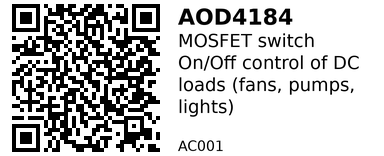
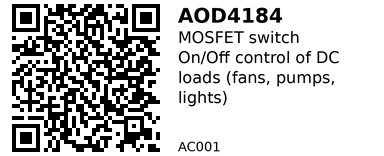
bulk printing

Changed region(s): [[0.4375, 0.0256, 0.9375, 0.7436], [0.4688, 0.8974, 0.5938, 0.9744]]

diff --git a/scripts/build_labels.py b/scripts/build_labels.py
@@ -1,18 +1,20 @@
 #!/usr/bin/env python3
 """
-Build QR labels for each component page (T02-friendly).
-- Final width is exactly MAX_WIDTH to avoid blurry global rescaling.
-- Presets: 'compact' or 'large' (bigger QR + fonts).
-- QR left (sharp), wrapped text right (hi-DPI then LANCZOS downscale).
-- Title aligns to TOP of QR; code aligns to BOTTOM of QR.
-- Title shows NAME only; footer shows CODE; URL only inside QR.
-- Output: docs/stickers/<ID>.png and docs/stickers/index.csv
+Build QR labels for each component page (T02-friendly), and also pack multiple
+labels into tall 'sheets' you can print at once (<= 50mm x 150mm).
+
+Tweaks:
+- Vertical cut bar is now OPTIONAL and defaults to OFF.
+- Draw a single horizontal divider centered in each gap between labels.
+- Keep 8 px gap; divider is precisely centered in that gap.
 """
 
 from pathlib import Path
-import re, csv, yaml
-import qrcode
+import re
+import csv
+import yaml
 from PIL import Image, ImageDraw, ImageFont
+import qrcode
 
 # ----------------- Preset -----------------
 PRESET = "large"   # "compact" or "large"
@@ -25,8 +27,26 @@ FONTS_DIR = ROOT / "fonts"
 OUT.mkdir(parents=True, exist_ok=True)
 
 # ----------- Printer/layout ---------------
-MAX_WIDTH = 384          # T02 (58mm). Use 576 for 80mm printers.
+# T02 width: 58mm class paper, printable width ~384 dots at 203 dpi (≈48mm).
+MAX_WIDTH = 384
 QR_BORDER = 1
+
+# Cut/packing settings
+DPI = 203
+SHEET_MAX_HEIGHT_MM = 150        # tallest you can configure
+SHEET_MAX_H = int(round(SHEET_MAX_HEIGHT_MM / 25.4 * DPI))   # ≈1200 px
+
+# Gap between stacked labels so you don’t cut into a QR
+LABEL_GAP_PX = 8
+
+# Horizontal divider (centered in the gap)
+DRAW_H_DIVIDER = True
+H_DIV_THICK = 1                   # 1 px looks crisp on T02
+
+# Vertical cut bar (optional guide near the right edge)
+DRAW_VERTICAL_CUT_LINE = False     # default off (you can set True if you want it)
+CUT_LINE_INSET = 6                 # px from right edge (avoid clipping)
+CUT_LINE_WIDTH = 3                 # width of the vertical bar
 
 # Common paddings
 PADDING_LEFT    = 8
@@ -38,21 +58,20 @@ MAX_INFO_LINES  = 5
 
 # Per-preset sizing
 if PRESET == "large":
-    # Larger QR and fonts; text rendered at higher DPI for smoothness
     QR_BOX_SIZE      = 4
-    TITLE_FONT_SIZE  = 22
-    LINE_FONT_SIZE   = 18
-    SMALL_FONT_SIZE  = 14
-    LINE_SPACING     = 22
-    TITLE_SPACING    = 26
-    TEXT_SCALE       = 3   # hi-DPI text render factor
-else:  # compact
-    QR_BOX_SIZE      = 3
-    TITLE_FONT_SIZE  = 18
+    TITLE_FONT_SIZE  = 20
     LINE_FONT_SIZE   = 16
     SMALL_FONT_SIZE  = 13
     LINE_SPACING     = 20
     TITLE_SPACING    = 24
+    TEXT_SCALE       = 3
+else:  # compact
+    QR_BOX_SIZE      = 3
+    TITLE_FONT_SIZE  = 17
+    LINE_FONT_SIZE   = 15
+    SMALL_FONT_SIZE  = 12
+    LINE_SPACING     = 18
+    TITLE_SPACING    = 22
     TEXT_SCALE       = 2
 
 # --------- Optional metadata block --------
@@ -74,12 +93,15 @@ FONT_REG_13 = load_font(FONTS_DIR / "DejaVuSans.ttf",      SMALL_FONT_SIZE) or I
 
 # --------------- Helpers ------------------
 def parse_front_matter(text: str):
-    if text.startswith("---"):
-        end = text.find("\n---", 3)
-        if end != -1:
-            yml = text[3:end+1]
-            body = text[end+4:]
+    """Return (front_matter_dict, body_text)."""
+    m = re.match(r'^---\s*\n(.*?)\n---\s*\n?(.*)\Z', text, re.S)
+    if m:
+        yml = m.group(1)
+        body = m.group(2)
+        try:
             return yaml.safe_load(yml) or {}, body
+        except Exception:
+            return {}, text
     return {}, text
 
 def parse_printer_meta(text: str):
@@ -108,7 +130,7 @@ def wrap_to_width(text: str, font: ImageFont.FreeTypeFont, max_w: int, draw: Ima
     lines.append(cur)
     return lines
 
-def render_text_panel(title: str, info_lines: list[str], code: str, height: int, width: int) -> Image.Image:
+def render_text_panel(title: str, info_lines, code: str, height: int, width: int) -> Image.Image:
     """
     Render the right-hand text panel to EXACTLY the QR height and the
     computed text column width. Text is drawn at TEXT_SCALE and downsampled
@@ -129,18 +151,30 @@ def render_text_panel(title: str, info_lines: list[str], code: str, height: int,
     x = 0
     y = TOP_PADDING * SCALE
 
-    # Title at TOP
-    d.text((x, y), title, fill=0, font=font_title)
-    y += TITLE_SPACING * SCALE
+    # ---- Title at TOP, allow up to 2 lines with ellipsis ----
+    TITLE_MAX_LINES = 2
+    title_lines = wrap_to_width(title, font_title, w_hi, d)
+    if len(title_lines) > TITLE_MAX_LINES:
+        title_lines = title_lines[:TITLE_MAX_LINES]
+        if len(title_lines[-1]) > 3:
+            while d.textlength(title_lines[-1] + "...", font=font_title) > w_hi and len(title_lines[-1]) > 1:
+                title_lines[-1] = title_lines[-1][:-1]
+            title_lines[-1] += "..."
 
-    # Wrap each info line to width, then cap total lines
+    for tl in title_lines:
+        d.text((x, y), tl, fill=0, font=font_title)
+        y += TITLE_SPACING * SCALE
+
+    # ---- Body lines (wrapped, capped) ----
     wrapped = []
     for line in info_lines or []:
         wrapped += wrap_to_width(line, font_line, w_hi, d)
         if len(wrapped) >= MAX_INFO_LINES:
             wrapped = wrapped[:MAX_INFO_LINES]
             if len(wrapped[-1]) > 3:
-                wrapped[-1] = wrapped[-1].rstrip(".") + "..."
+                while d.textlength(wrapped[-1] + "...", font=font_line) > w_hi and len(wrapped[-1]) > 1:
+                    wrapped[-1] = wrapped[-1][:-1]
+                wrapped[-1] += "..."
             break
 
     for ln in wrapped:
@@ -155,10 +189,11 @@ def render_text_panel(title: str, info_lines: list[str], code: str, height: int,
     img = img_hi.resize((width, height), Image.LANCZOS)
     return img
 
-def make_label_png(title: str, lines: list[str], url: str, code: str, out_path: Path):
+def make_label_png(title: str, lines, url: str, code: str, out_path: Path) -> Image.Image:
     """
     Compose final label: QR (native sharp) + text panel with top/bottom alignment to QR.
-    The text column width is computed so the final image width equals MAX_WIDTH.
+    The text column width is computed so the final width equals MAX_WIDTH.
+    Returns the PIL image (and saves it).
     """
     # Build QR at native pixel size (kept sharp)
     qr = qrcode.QRCode(border=QR_BORDER, box_size=QR_BOX_SIZE)
@@ -182,10 +217,82 @@ def make_label_png(title: str, lines: list[str], url: str, code: str, out_path: 
     img.paste(text_panel, (text_x, 0))
 
     img.save(out_path)
+    return img
+
+def pack_sheets(label_paths):
+    """
+    Read individual label PNGs (all MAX_WIDTH wide, variable heights),
+    stack them top-to-bottom into sheets not exceeding SHEET_MAX_H.
+    Draw a centered horizontal divider in each gap (optional).
+    Returns metadata rows for the sheets.csv.
+    """
+    sheets_meta = []
+    sheet_index = 1
+
+    def flush_sheet(labels_for_sheet):
+        nonlocal sheet_index
+        if not labels_for_sheet:
+            return
+        total_h = sum(img.height for img in labels_for_sheet) + LABEL_GAP_PX * max(0, len(labels_for_sheet) - 1)
+        sheet = Image.new("L", (MAX_WIDTH, total_h), 255)
+        d = ImageDraw.Draw(sheet)
+        y = 0
+        for i, im in enumerate(labels_for_sheet):
+            sheet.paste(im, (0, y))
+            y += im.height
+            if LABEL_GAP_PX and i < len(labels_for_sheet) - 1:
+                # centered horizontal divider
+                if DRAW_H_DIVIDER:
+                    y_mid = y + LABEL_GAP_PX // 2
+                    y0 = max(0, min(total_h - 1, y_mid - H_DIV_THICK // 2))
+                    y1 = max(0, min(total_h - 1, y0 + H_DIV_THICK - 1))
+                    d.rectangle([0, y0, MAX_WIDTH - 1, y1], fill=0)
+                y += LABEL_GAP_PX
+
+        # Optional vertical cut bar near the right edge
+        if DRAW_VERTICAL_CUT_LINE:
+            x0 = max(0, min(MAX_WIDTH - 1, MAX_WIDTH - CUT_LINE_INSET))
+            x1 = max(0, min(MAX_WIDTH - 1, x0 + CUT_LINE_WIDTH - 1))
+            d.rectangle([x0, 0, x1, total_h - 1], fill=0)
+
+        out_name = f"sheet_{sheet_index:03d}.png"
+        out_path = OUT / out_name
+        sheet.save(out_path)
+        sheets_meta.append({
+            "sheet": out_name,
+            "height_px": total_h,
+            "labels": len(labels_for_sheet),
+        })
+        sheet_index += 1
+
+    # Load images and group by height budget
+    pending_imgs = []
+    for p in label_paths:
+        try:
+            pending_imgs.append(Image.open(p).convert("L"))
+        except Exception:
+            continue
+
+    cur_labels = []
+    cur_h = 0
+    for im in pending_imgs:
+        need_h = im.height + (LABEL_GAP_PX if cur_labels else 0)
+        if cur_h + need_h <= SHEET_MAX_H:
+            cur_labels.append(im)
+            cur_h += need_h
+        else:
+            flush_sheet(cur_labels)
+            cur_labels = [im]
+            cur_h = im.height
+
+    flush_sheet(cur_labels)
+    return sheets_meta
 
 # ----------------- Main ------------------
 def main():
     rows = []
+    built_paths = []
+
     for md in sorted(DOCS.glob("*.md")):
         if md.name.lower() == "index.md":
             continue
@@ -195,7 +302,7 @@ def main():
         meta = parse_printer_meta(text)
 
         comp_id   = (fm.get("id")   or md.stem).strip()
-        comp_name = (fm.get("name") or md.stem).strip()
+        comp_name = (fm.get("name") or "").strip()
         short     = (fm.get("short") or "").strip()
         use       = (fm.get("use")   or "").strip()
 
@@ -204,7 +311,8 @@ def main():
                or fm.get("qr_url")
                or f"https://thibserot.github.io/electronics-catalog/components/{md.stem}/").strip()
 
-        title = (meta.get("title") or comp_name).strip()
+        # Title preference: meta.title > fm.name > md.stem
+        title = (meta.get("title") or comp_name or md.stem).strip()
 
         # Info lines: meta.lines overrides derived lines
         lines = meta.get("lines")
@@ -216,17 +324,18 @@ def main():
                 lines.append(use)
 
         out_png = OUT / f"{comp_id}.png"
-        make_label_png(title, lines, url, code=comp_id, out_path=out_png)
+        img = make_label_png(title, lines, url, code=comp_id, out_path=out_png)
+        built_paths.append(out_png)
 
         rows.append({
             "id": comp_id,
-            "name": comp_name,
+            "name": comp_name or md.stem,
             "url": url,
             "label_png": str(out_png.relative_to(DOCS))
         })
-        print(f"Built {out_png}")
+        print(f"Built {out_png} ({img.width}x{img.height})")
 
-    # Inventory CSV
+    # Inventory CSV for individual labels
     csv_path = OUT / "index.csv"
     with open(csv_path, "w", newline="", encoding="utf-8") as f:
         w = csv.DictWriter(f, fieldnames=["id","name","url","label_png"])
@@ -234,6 +343,15 @@ def main():
         w.writerows(rows)
     print(f"Wrote {csv_path}")
 
+    # ---- Build sheets (<=50mm x 150mm at 203 dpi) ----
+    sheets_meta = pack_sheets(built_paths)
+    if sheets_meta:
+        sheets_csv = OUT / "sheets.csv"
+        with open(sheets_csv, "w", newline="", encoding="utf-8") as f:
+            w = csv.DictWriter(f, fieldnames=["sheet","height_px","labels"])
+            w.writeheader()
+            w.writerows(sheets_meta)
+        print(f"Wrote {sheets_csv}")
+
 if __name__ == "__main__":
     main()
-
